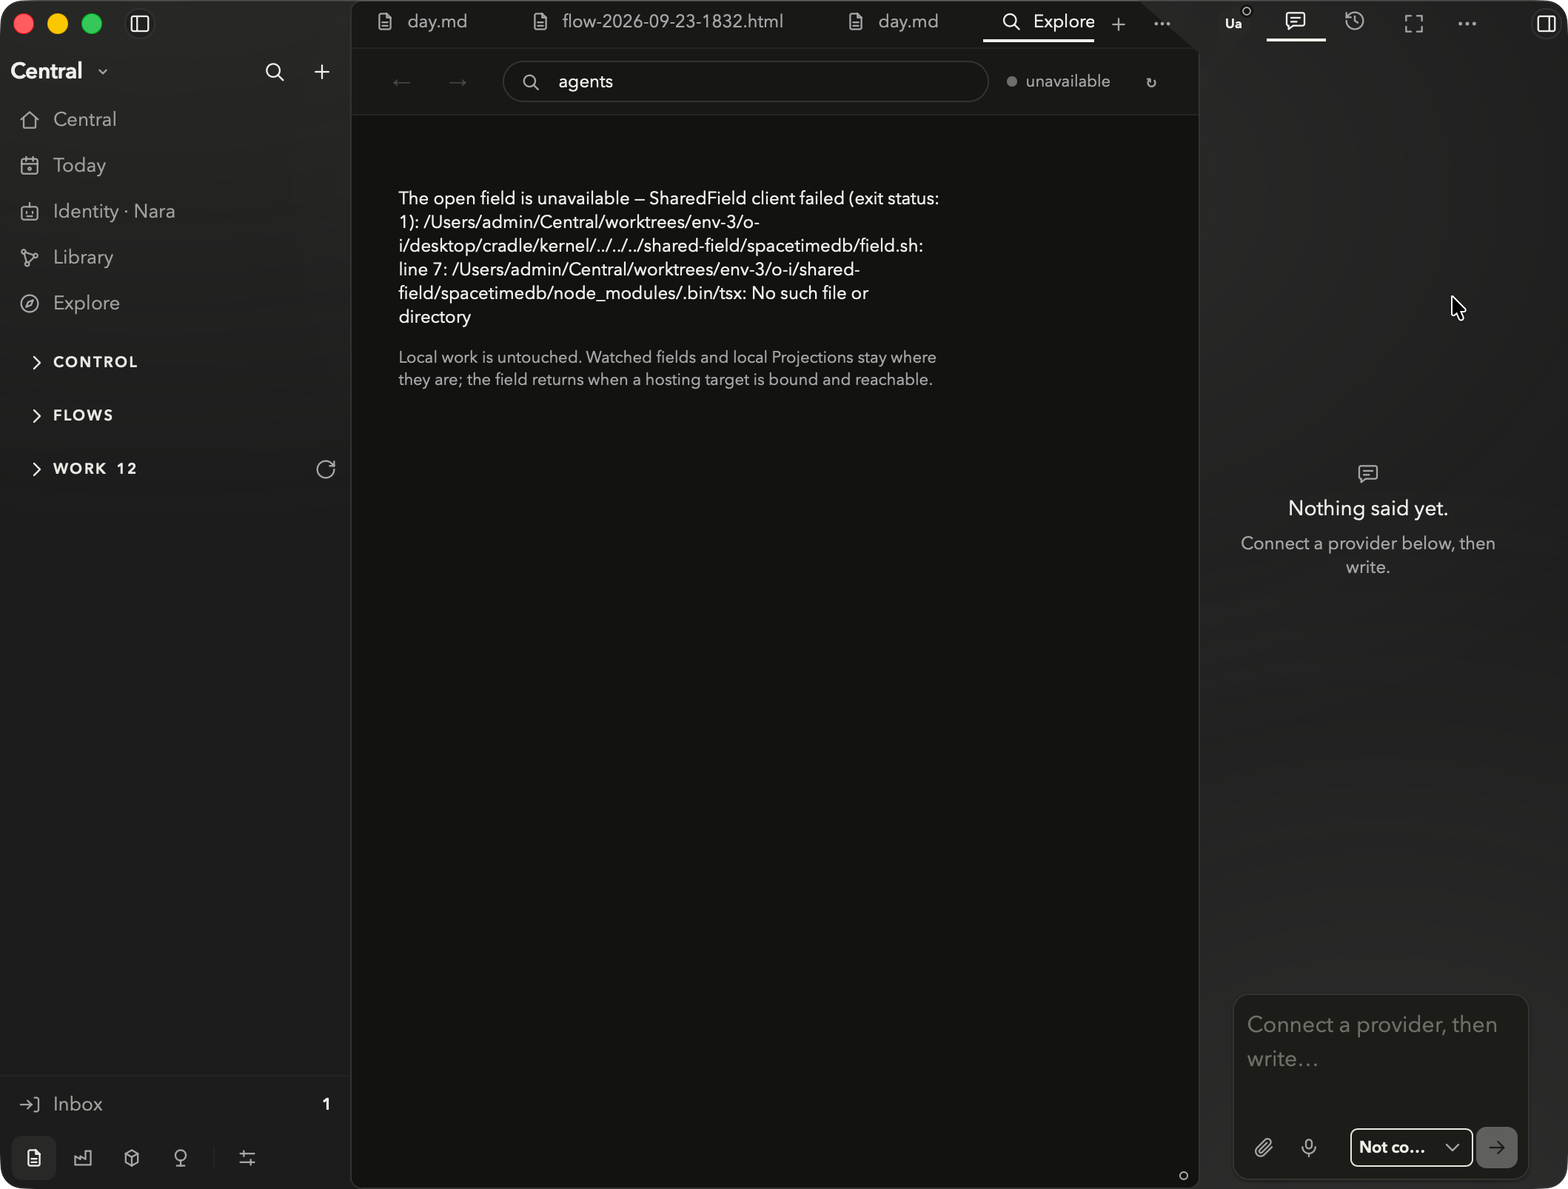
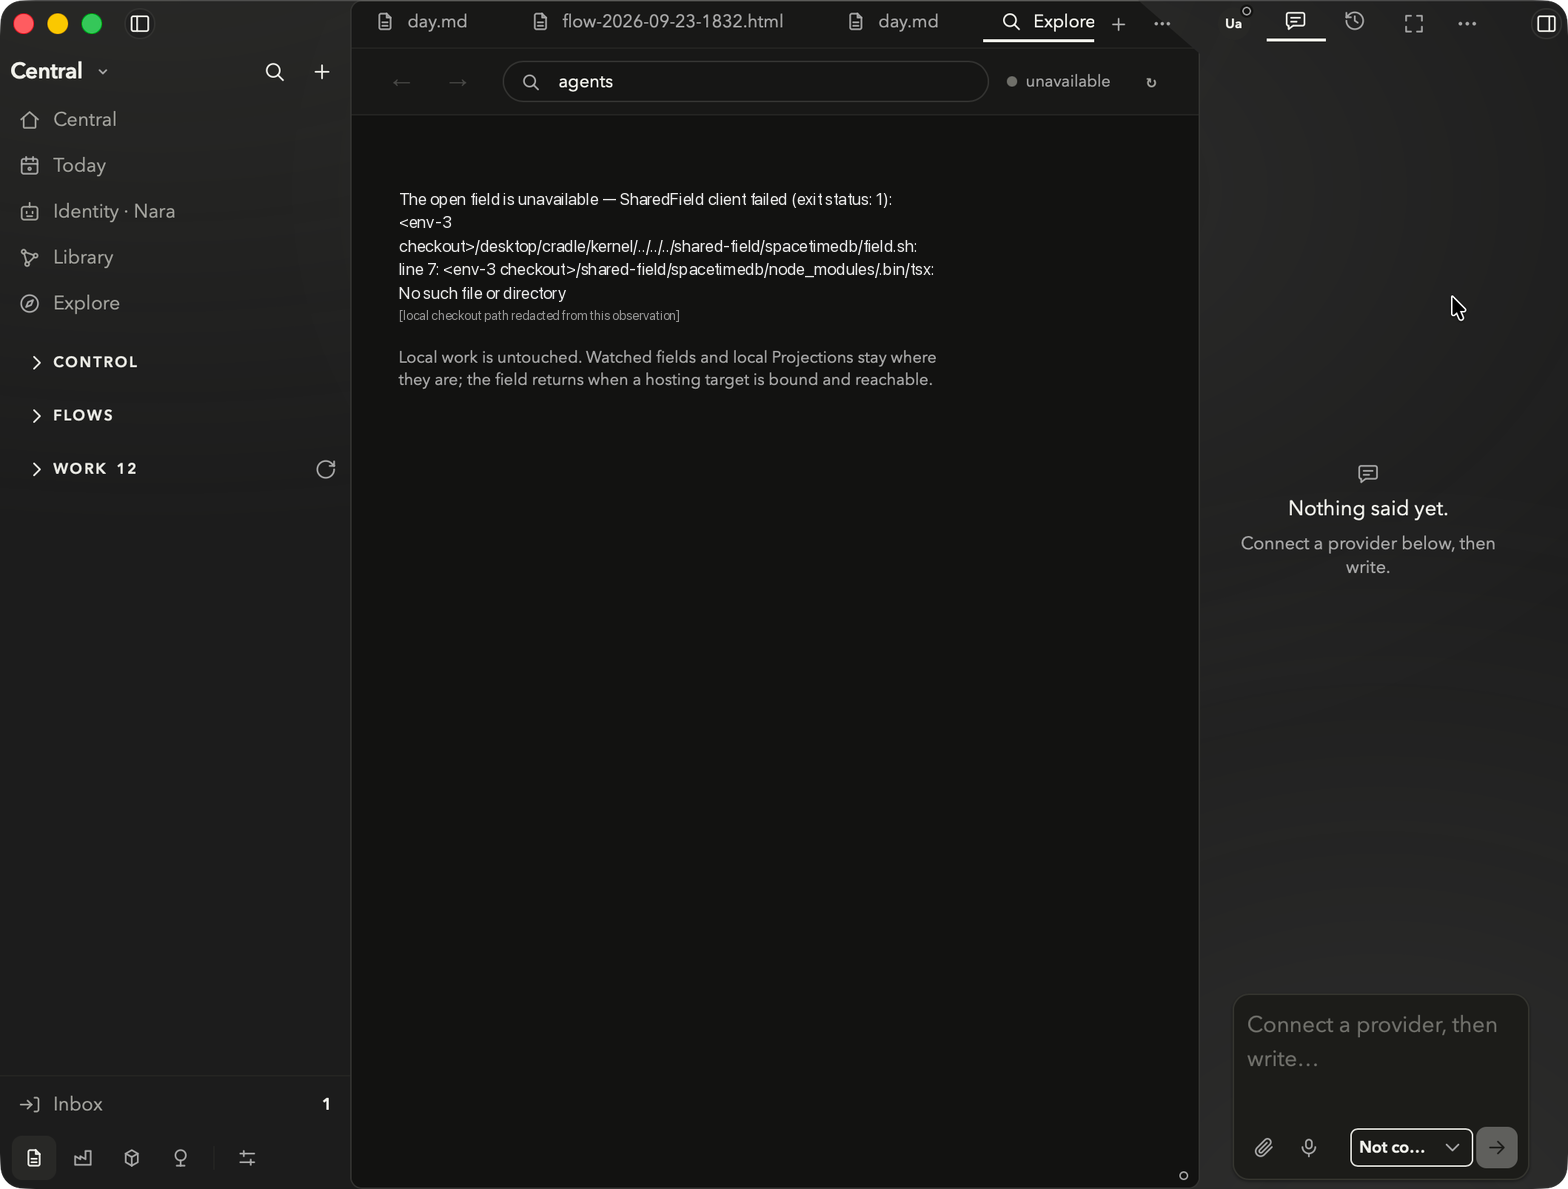
campaign-evidence: redact the local checkout path from the web65 installed-Explore observation
EPISODE.md and observations/01-installed-explore-unavailable.png named an
absolute local checkout path; both now read `<env-3 checkout>`. No other
/Users/ or /home/ path remains in the web65 campaign evidence or the
web65-* walk artifacts.

Changed region(s): [[0.25, 0.1556, 0.5938, 0.2801]]

diff --git a/campaign-evidence/2026-09-28-web65-shared-world/EPISODE.md b/campaign-evidence/2026-09-28-web65-shared-world/EPISODE.md
@@ -16,7 +16,7 @@ here claims H.
 | Installed | oi `76af402b`; desktop bundle `source_revision 9905eac4` (built in env-3, 2026-09-27) |
 | Driven with | cua-driver 0.28 against `org.epilogos.oi.cradle` (pid-scoped click/screenshot) |
 | Act | Welcome → rail **Explore** |
-| Observed | Explore Surface opens with query `agents`, status `unavailable`: "SharedField client failed (exit status: 1): /Users/admin/Central/worktrees/env-3/o-i/desktop/cradle/kernel/../../../shared-field/spacetimedb/field.sh: line 7: …/node_modules/.bin/tsx: No such file or directory" ([observation](observations/01-installed-explore-unavailable.png)) |
+| Observed | Explore Surface opens with query `agents`, status `unavailable`: "SharedField client failed (exit status: 1): `<env-3 checkout>`/desktop/cradle/kernel/../../../shared-field/spacetimedb/field.sh: line 7: …/node_modules/.bin/tsx: No such file or directory" ([observation](observations/01-installed-explore-unavailable.png); the local checkout path is redacted in the text and the image) |
 | First missing relation | The release kernel resolved its SharedField client through `CARGO_MANIFEST_DIR` into the checkout it was compiled in; the GUI process also had no `OI_SHARED_FIELD_TARGET`. The installed app carried no client and no binding. |
 | Same defect on Omarchy | no desktop installed; its checkout's `field.sh` fails (`module_bindings/` generated-only, no `spacetime` CLI) |
 | Repair | `a77e0891` — bundled client resource `shared-field/` (field + A2A runner + hosting.json + node-finding launcher), kernel order explicit → bundled → development-only checkout, machine binding `OI_STATE_HOME/shared-field/binding.json` (`bind`/`unbind`) |
